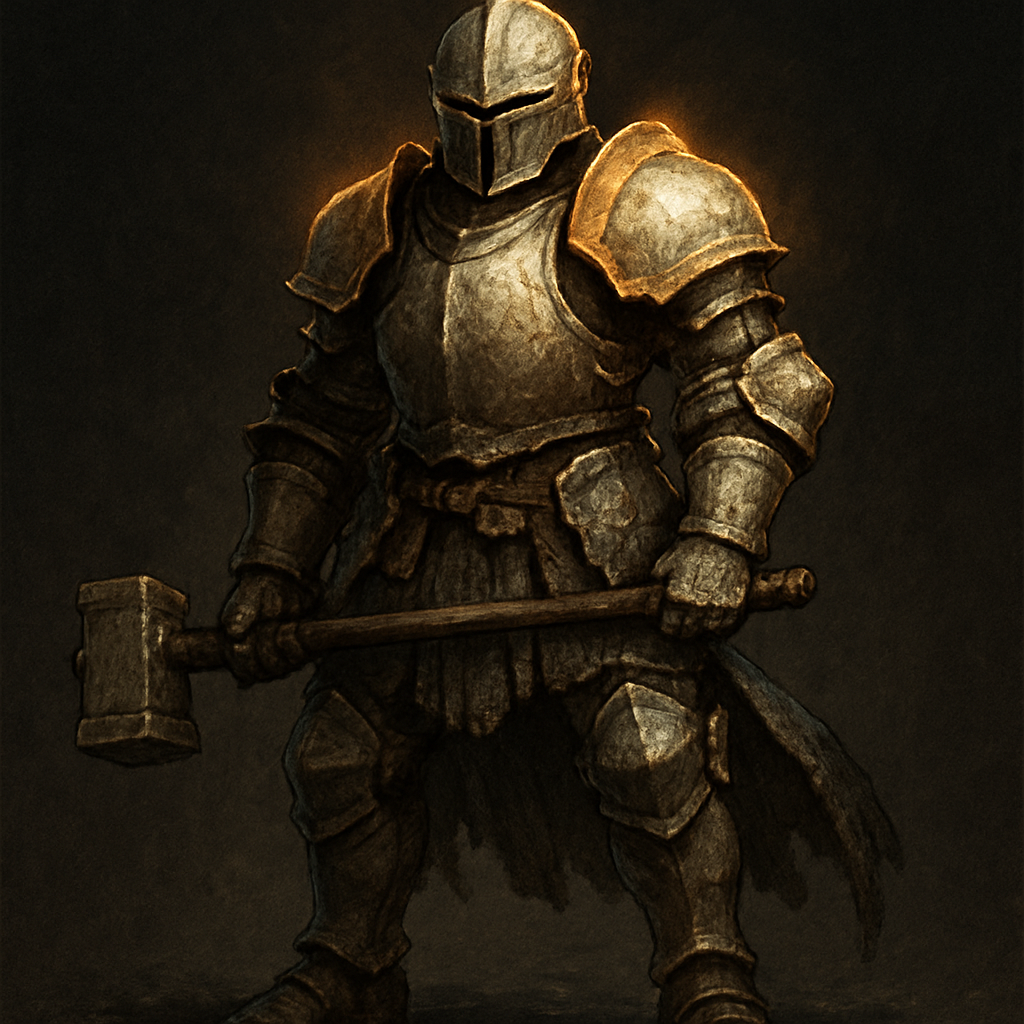
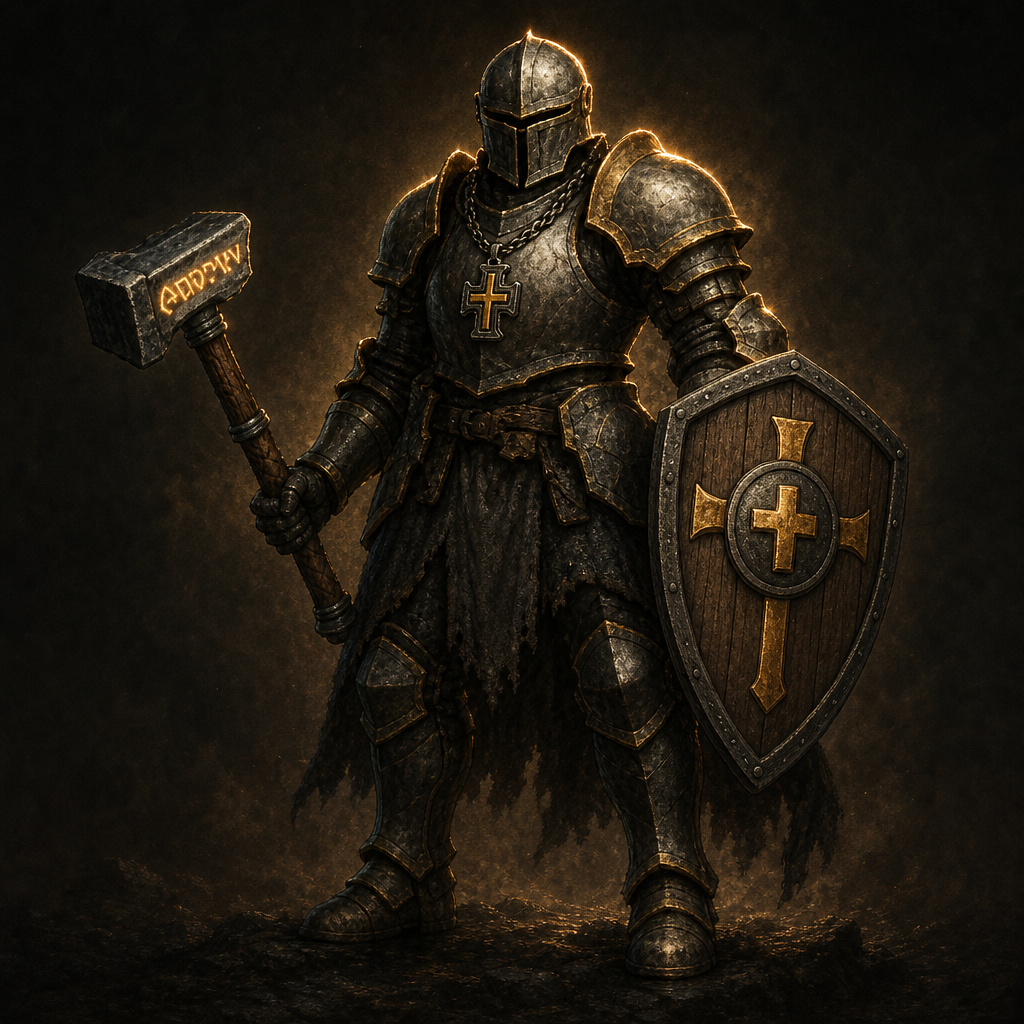
loadout: Matt-curated hero image swap — HERO_OF_ENGINE → Crushguard of the Shattered Gate
Matt 2026-05-29 verbatim: "I added a new version of the hero of the season at this link (wearing weapon/shield/amulet). Please replace the hero of the season and the hero of the engine with this hero picture/name/flavor in the summary tab. I will share animation link shortly as well."

Changes:
- public/pitch/heroes/season_001_hero.png: replaced drax-generated hero with Matt-curated portrait (1024×1024 PNG; ironclad crusader with War Hammer, heater shield, cross amulet; european medieval; physical + holy theming)
- pitchData.ts HERO_OF_ENGINE: swapped from "Canary of the Drowned Seam" (season_002013 fire_mage) → "Crushguard of the Shattered Gate" (cycle-14-wave-5-season-001 Cluster 3 Ironfield Vanguard physical_ironclad)
- Same image now serves both Hero of the Season (Cycle14SeasonSection consumes via cycle14SeasonData.ts hero_image_url) AND Hero of the Engine (HeroOfEngineSpotlight via HERO_OF_ENGINE.portraitPath)
- Name + flavor sourced from drax wave_b_identities.json Crushguard kit narrative (S1_endgame_bc_melee_high_flat_str_none_s0; ai_tell_compliance_score=0.82; ACCEPT)

Composition with cascade-r4 follow-on:
- Hero of the Engine now showcases Cycle 14 v1 post-aggregator-fix substrate-honest output (vs legacy season_002013 highlight)
- Substrate composition: physical 33% primary + holy 22% secondary (Cluster 3 post-aggregator-fix; pre-fix was lightning-biased illusion)
[…]

Changed region(s): [[0.0625, 0.0, 0.9062, 1.0], [0.0625, 0.5625, 0.1875, 0.75], [0.9375, 0.9688, 0.9688, 1.0]]

diff --git a/src/data/pitch/pitchData.ts b/src/data/pitch/pitchData.ts
@@ -83,18 +83,19 @@ export interface HeroOfEngine {
 // Source: gandalf curation § 1
 // ---------------------------------------------------------------------------
 export const HERO_OF_ENGINE: HeroOfEngine = {
-  className: 'Canary of the Drowned Seam',
-  seasonId: 'season_002013',
-  anchorName: "The Dwarves' Empty Halls",
-  substrate: 'fire',
-  archetype: 'fire_mage',
-  // TODO(drax): swap portraitPath for star-lord manifest path when Phase 2 lands
-  portraitPath: '/pitch/heroes/season_002013/canary-of-the-drowned-seam.png',
+  className: 'Crushguard of the Shattered Gate',
+  seasonId: 'cycle-14-wave-5-season-001',
+  anchorName: 'Ironfield Vanguard',
+  substrate: 'physical',
+  archetype: 'physical_ironclad',
+  // Matt-curated portrait (2026-05-29) — replaces drax-generated season_001_hero.png at same path
+  // TODO(drax): swap portraitPath for Meshy animation URL when Matt § 12.3 handoff returns
+  portraitPath: '/pitch/heroes/season_001_hero.png',
   whyThisHero:
-    "This is what the engine does on a good day. The LLM took a fire substrate and authored it through the lens of a coal-mining underworld — fusing mining-mortality folklore (the canary as harbinger), industrial disaster (the drowned seam as flooded coal-vein), and fantasy elemental magic into a single coherent identity. No human named this class. The whole compound metaphor was composed by the LLM from the season's substrate grammar and the anchor's narrative register.",
-  featuredPairLabel: 'Thermal pair',
+    "This is what the engine does on a good day. The substrate spoke: a Cluster 3 european-medieval lineage with physical-dominant force (33%) carrying a holy secondary (22%) under a close-quarters large-AOE engagement profile and a STR + War Hammer signature. The LLM composed that into Crushguard of the Shattered Gate — an ironclad crusader who holds the line where it breaks widest. No human named this kit; the compound identity (Ironfield Vanguard faction + Crushguard role + Shattered Gate epithet) was composed by the LLM from the season's substrate grammar after the cascade-r4 aggregator fix surfaced physical truth at the player-facing layer.",
+  featuredPairLabel: 'Vanguard pair',
   featuredPairRationale:
-    'Seam Pressure builds in pockets until the coal-vein ruptures outward in cascading release, while Damp Creep is the slow wet air that seeps through abandoned corridors and settles into lungs and joints without ever announcing itself.',
+    'Where the line collapses and the breach opens widest, this fighter drives forward on raw strength alone, sustaining pressure across the close-quarters crush without relenting. The Ironfield Vanguard keeps them at the front not for finesse but for the grinding, unbroken weight they bring to every engagement.',
 };
 
 // ---------------------------------------------------------------------------